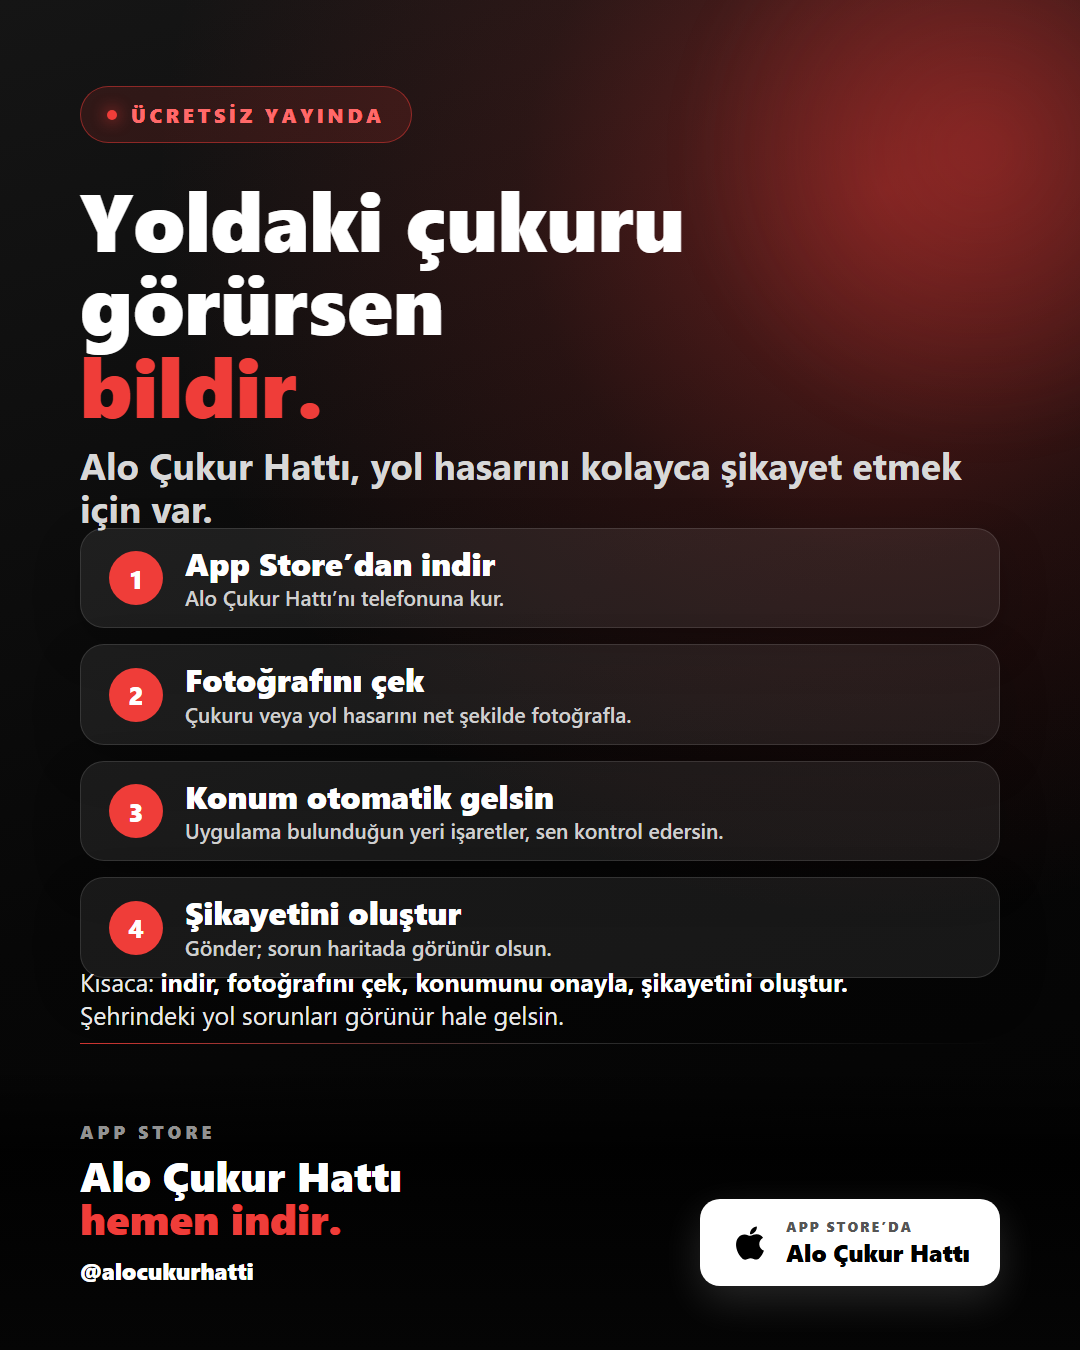
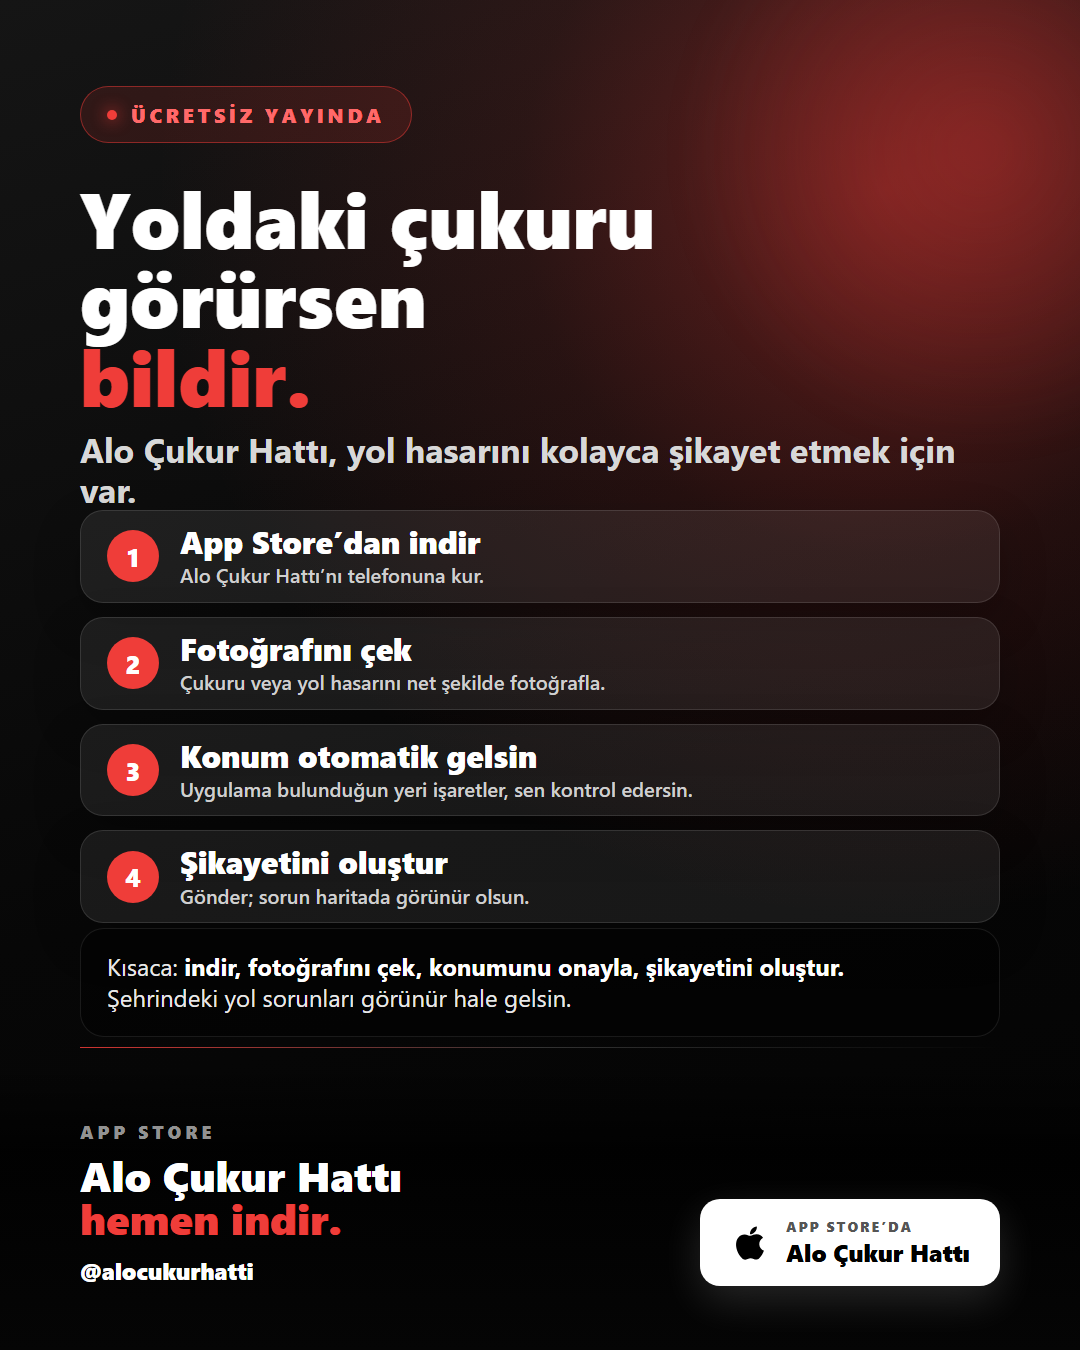
fix: clean up plain language post layout

Changed region(s): [[0.0611, 0.1244, 0.8861, 0.7778]]

diff --git a/sosyalmedya/ig_post_halk_dili_indir.html b/sosyalmedya/ig_post_halk_dili_indir.html
@@ -18,10 +18,7 @@
     background:radial-gradient(circle,rgba(229,57,53,.35),rgba(229,57,53,0) 68%);
     filter:blur(18px);
   }
-  .canvas:after{
-    content:"";position:absolute;left:80px;right:80px;bottom:306px;height:1px;
-    background:linear-gradient(90deg,rgba(229,57,53,.9),rgba(255,255,255,.18),rgba(255,255,255,0));
-  }
+  .canvas:after{content:"";position:absolute;left:80px;right:80px;bottom:302px;height:1px;background:linear-gradient(90deg,rgba(229,57,53,.9),rgba(255,255,255,.18),rgba(255,255,255,0));}
   .eyebrow{
     position:absolute;top:86px;left:80px;display:inline-flex;align-items:center;gap:14px;
     padding:14px 26px;border-radius:999px;background:rgba(229,57,53,.14);
@@ -31,29 +28,31 @@
   .dot{width:10px;height:10px;border-radius:50%;background:#ef3d39;box-shadow:0 0 16px #ef3d39;}
   .headline{
     position:absolute;top:178px;left:80px;right:78px;
-    font-size:82px;font-weight:950;line-height:1.01;letter-spacing:0;
+    font-size:78px;font-weight:950;line-height:1.01;letter-spacing:0;
   }
   .headline .red{color:#ef3d39;}
-  .headline .small{display:block;margin-top:18px;font-size:37px;line-height:1.16;font-weight:700;color:#d8d8d8;}
+  .headline .small{display:block;margin-top:16px;font-size:34px;line-height:1.16;font-weight:700;color:#d8d8d8;}
   .steps{
-    position:absolute;top:528px;left:80px;right:80px;display:grid;gap:16px;
+    position:absolute;top:510px;left:80px;right:80px;display:grid;gap:14px;
   }
   .step{
-    min-height:98px;display:flex;align-items:center;gap:22px;
-    padding:17px 28px;border-radius:24px;
+    min-height:92px;display:flex;align-items:center;gap:21px;
+    padding:15px 26px;border-radius:23px;
     background:rgba(255,255,255,.075);border:1px solid rgba(255,255,255,.12);
     box-shadow:0 18px 48px rgba(0,0,0,.22);
   }
   .num{
-    flex:0 0 54px;width:54px;height:54px;border-radius:50%;
+    flex:0 0 52px;width:52px;height:52px;border-radius:50%;
     display:grid;place-items:center;background:#ef3d39;color:#fff;
     font-size:25px;font-weight:900;
   }
-  .copy b{display:block;font-size:32px;line-height:1.04;font-weight:900;color:#fff;}
-  .copy span{display:block;margin-top:6px;font-size:21px;line-height:1.2;color:#cfcfcf;font-weight:500;}
+  .copy b{display:block;font-size:31px;line-height:1.04;font-weight:900;color:#fff;}
+  .copy span{display:block;margin-top:5px;font-size:20px;line-height:1.18;color:#cfcfcf;font-weight:500;}
   .note{
-    position:absolute;left:80px;right:80px;top:966px;
-    font-size:25px;line-height:1.3;color:#e8e8e8;
+    position:absolute;left:80px;right:80px;top:928px;
+    padding:22px 26px 24px;border-radius:24px;
+    background:rgba(0,0,0,.38);border:1px solid rgba(255,255,255,.09);
+    font-size:24px;line-height:1.28;color:#e8e8e8;
   }
   .note b{color:#fff;}
   .cta-strip{

diff --git a/sosyalmedya/heygen_hyperframes_reels_sirasi.md b/sosyalmedya/heygen_hyperframes_reels_sirasi.md
@@ -1,0 +1,49 @@
+# HeyGen / HyperFrames Reels Sırası
+
+## Bulunan Araç
+
+Yerel repo:
+
+`C:\Users\talha\OneDrive\Masaüstü\_DUZENLI_CALISMA\03_DENEYLER_BOTLAR_AGENTLER\sosyalmedya-araclar\hyperframes`
+
+Bu repo HeyGen'in HyperFrames aracıdır. HTML/CSS/medya dosyalarından deterministik MP4 üretmek için kullanılır. Reels tarafında pop-up kartlar, sırayla gelen başlıklar, kinetik altyazılar ve ürün anlatımı için uygundur.
+
+Örnek pop-up video:
+
+`C:\Users\talha\OneDrive\Masaüstü\AI_ICERIK_HOLDING\ornek_reel12_logo_popup.mp4`
+
+Özellikleri: 1080x1920, yaklaşık 31.5 saniye. Alo Çukur Hattı için stil referansı olarak kullanılabilir.
+
+## Alo Çukur Hattı İçin Üretim Sırası
+
+1. **Nasıl Kullanılır?**
+   - App Store'dan indir.
+   - Fotoğrafını çek.
+   - Konum otomatik gelsin.
+   - Şikayetini oluştur.
+   - CTA: Alo Çukur Hattı App Store'da.
+
+2. **Ne İşe Yarar?**
+   - Yoldaki çukur görünür olur.
+   - Aynı sorunu yaşayanlar destek verir.
+   - Şehrin yol sorunları haritada toplanır.
+   - CTA: Gördüğün çukuru bildir.
+
+3. **Mahalle Dili**
+   - "Bu çukur hepimizin yolu."
+   - "Fotoğrafını çek, konumunu onayla."
+   - "Şikayet haritada görünsün."
+   - CTA: Ücretsiz indir.
+
+## Format Notları
+
+- 1080x1920 dikey Reels.
+- 25-32 saniye arası.
+- Uygulama ekranı şart değil; halk dili ve büyük pop-up metinler önde olacak.
+- Türkçe karakterler UTF-8 kalacak.
+- Alt yazı kısa tutulacak; her pop-up 1 cümle.
+- App Store linki görselde yazmayacak, sadece "APP STORE" ve `@alocukurhatti` görünecek.
+
+## Sonraki Uygulama
+
+İlk HyperFrames denemesi `Nasıl Kullanılır?` senaryosu ile üretilecek. Çıktı beğenilirse aynı şablondan 2. ve 3. Reels sırayla üretilecek.
